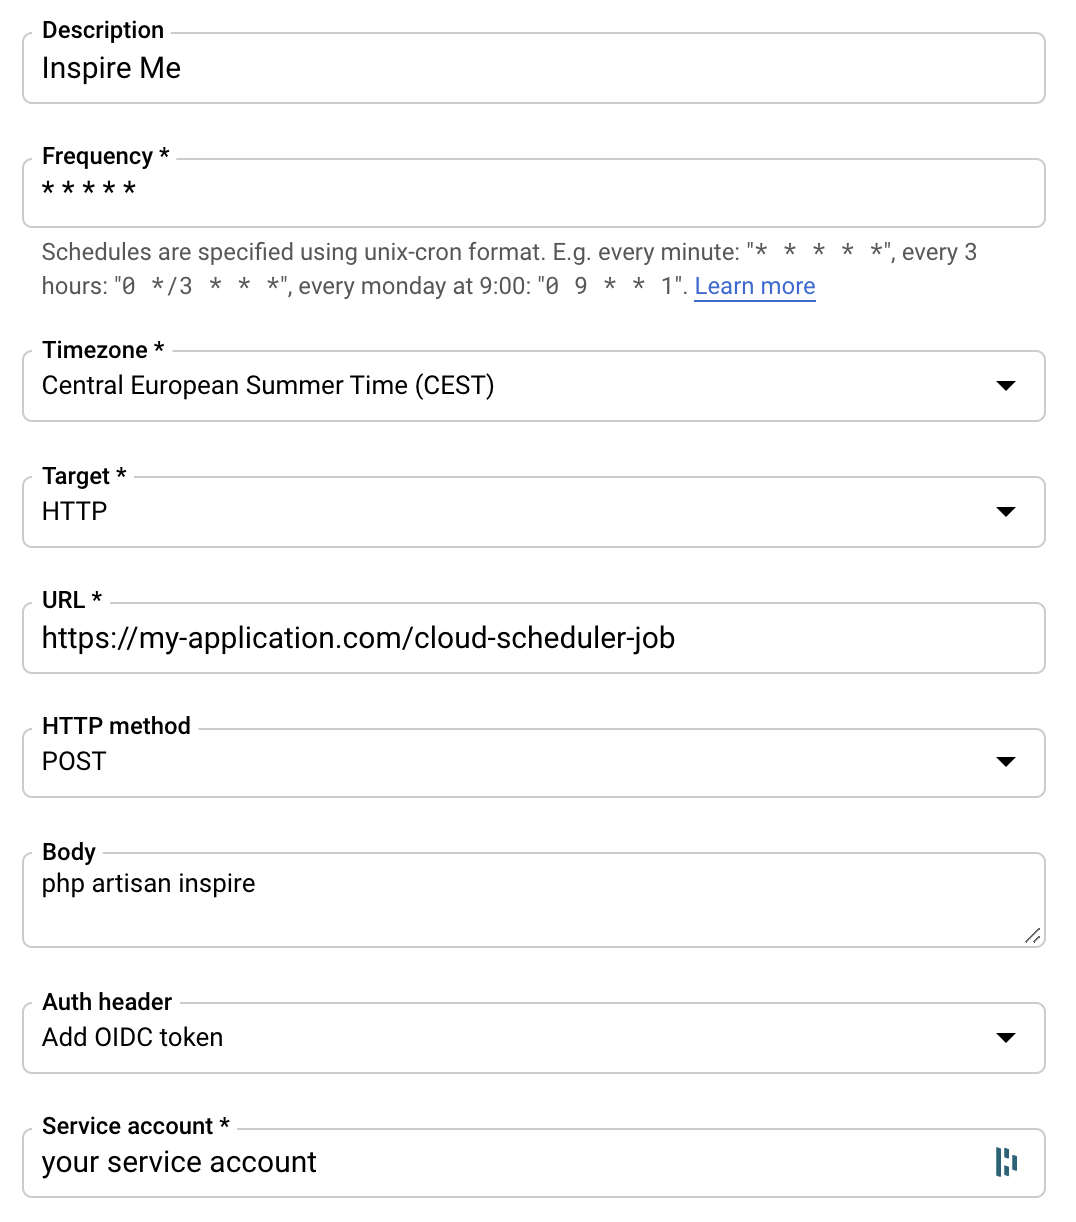
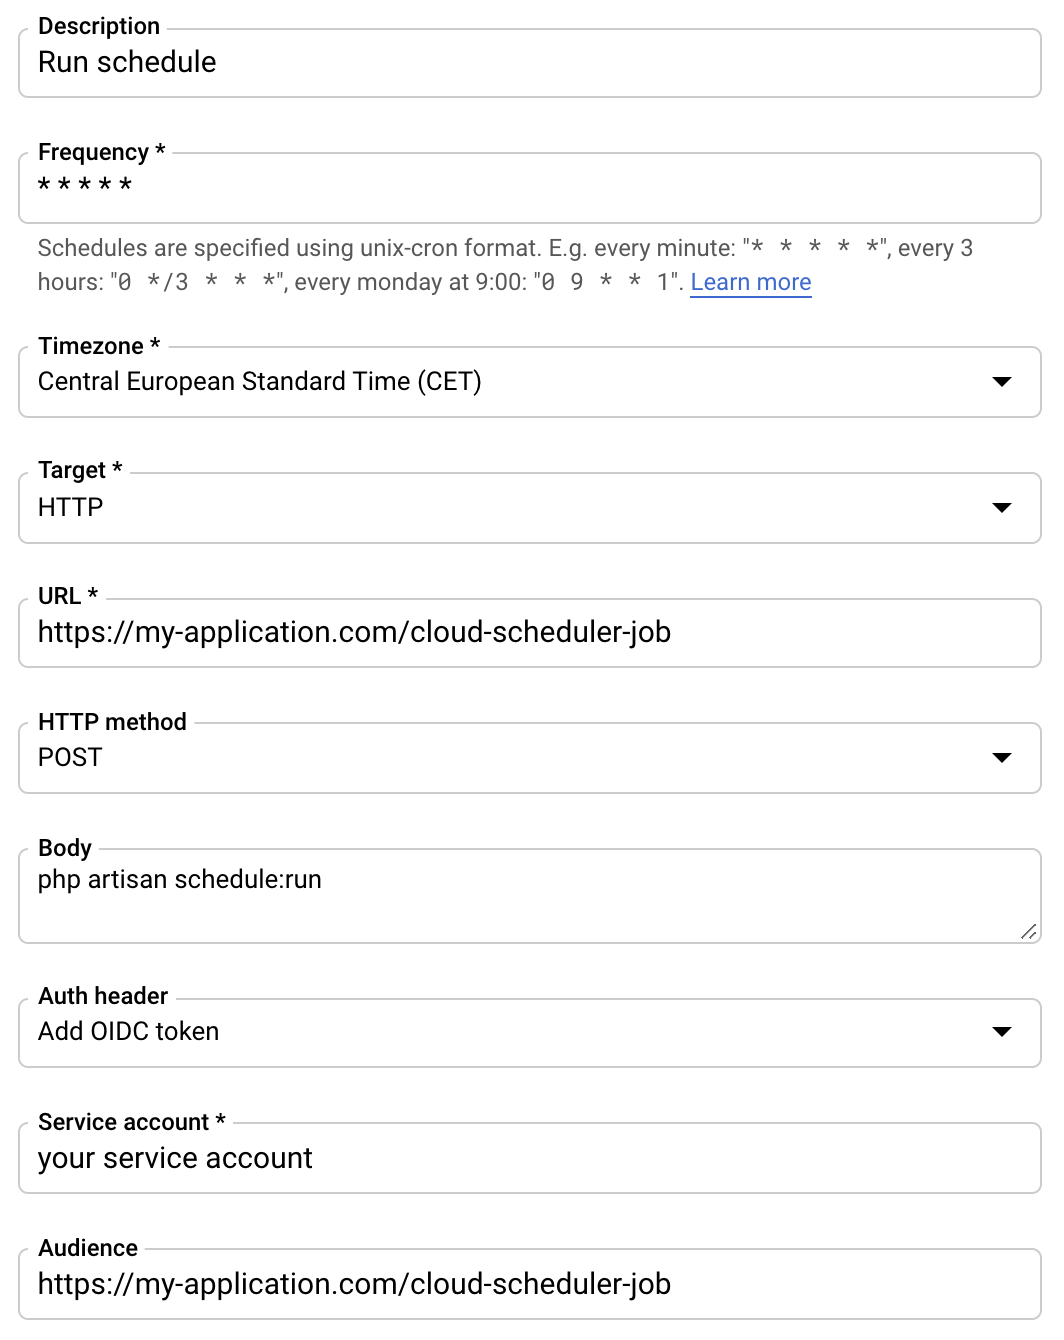
Update README.md with examples

diff --git a/README.md b/README.md
@@ -52,11 +52,11 @@ STACKKIT_CLOUD_SCHEDULER_APP_URL=https://yourdomainname.com/cloud-scheduler-job
 
 # Cloud Scheduler Example
 
-Here is an example job that will run `php artisan inspire` every minute.
+Here is an example job that will run `php artisan schedule:run` every minute.
 
 These are the most important settings:
 - Target must be `HTTP`
-- URL must be `https://yourdomainname.com/cloud-scheduler-job`
+- URL and AUD (audience) must be `https://yourdomainname.com/cloud-scheduler-job`
 - Auth header must be OIDC token!
 
 <img src="/example.png">
